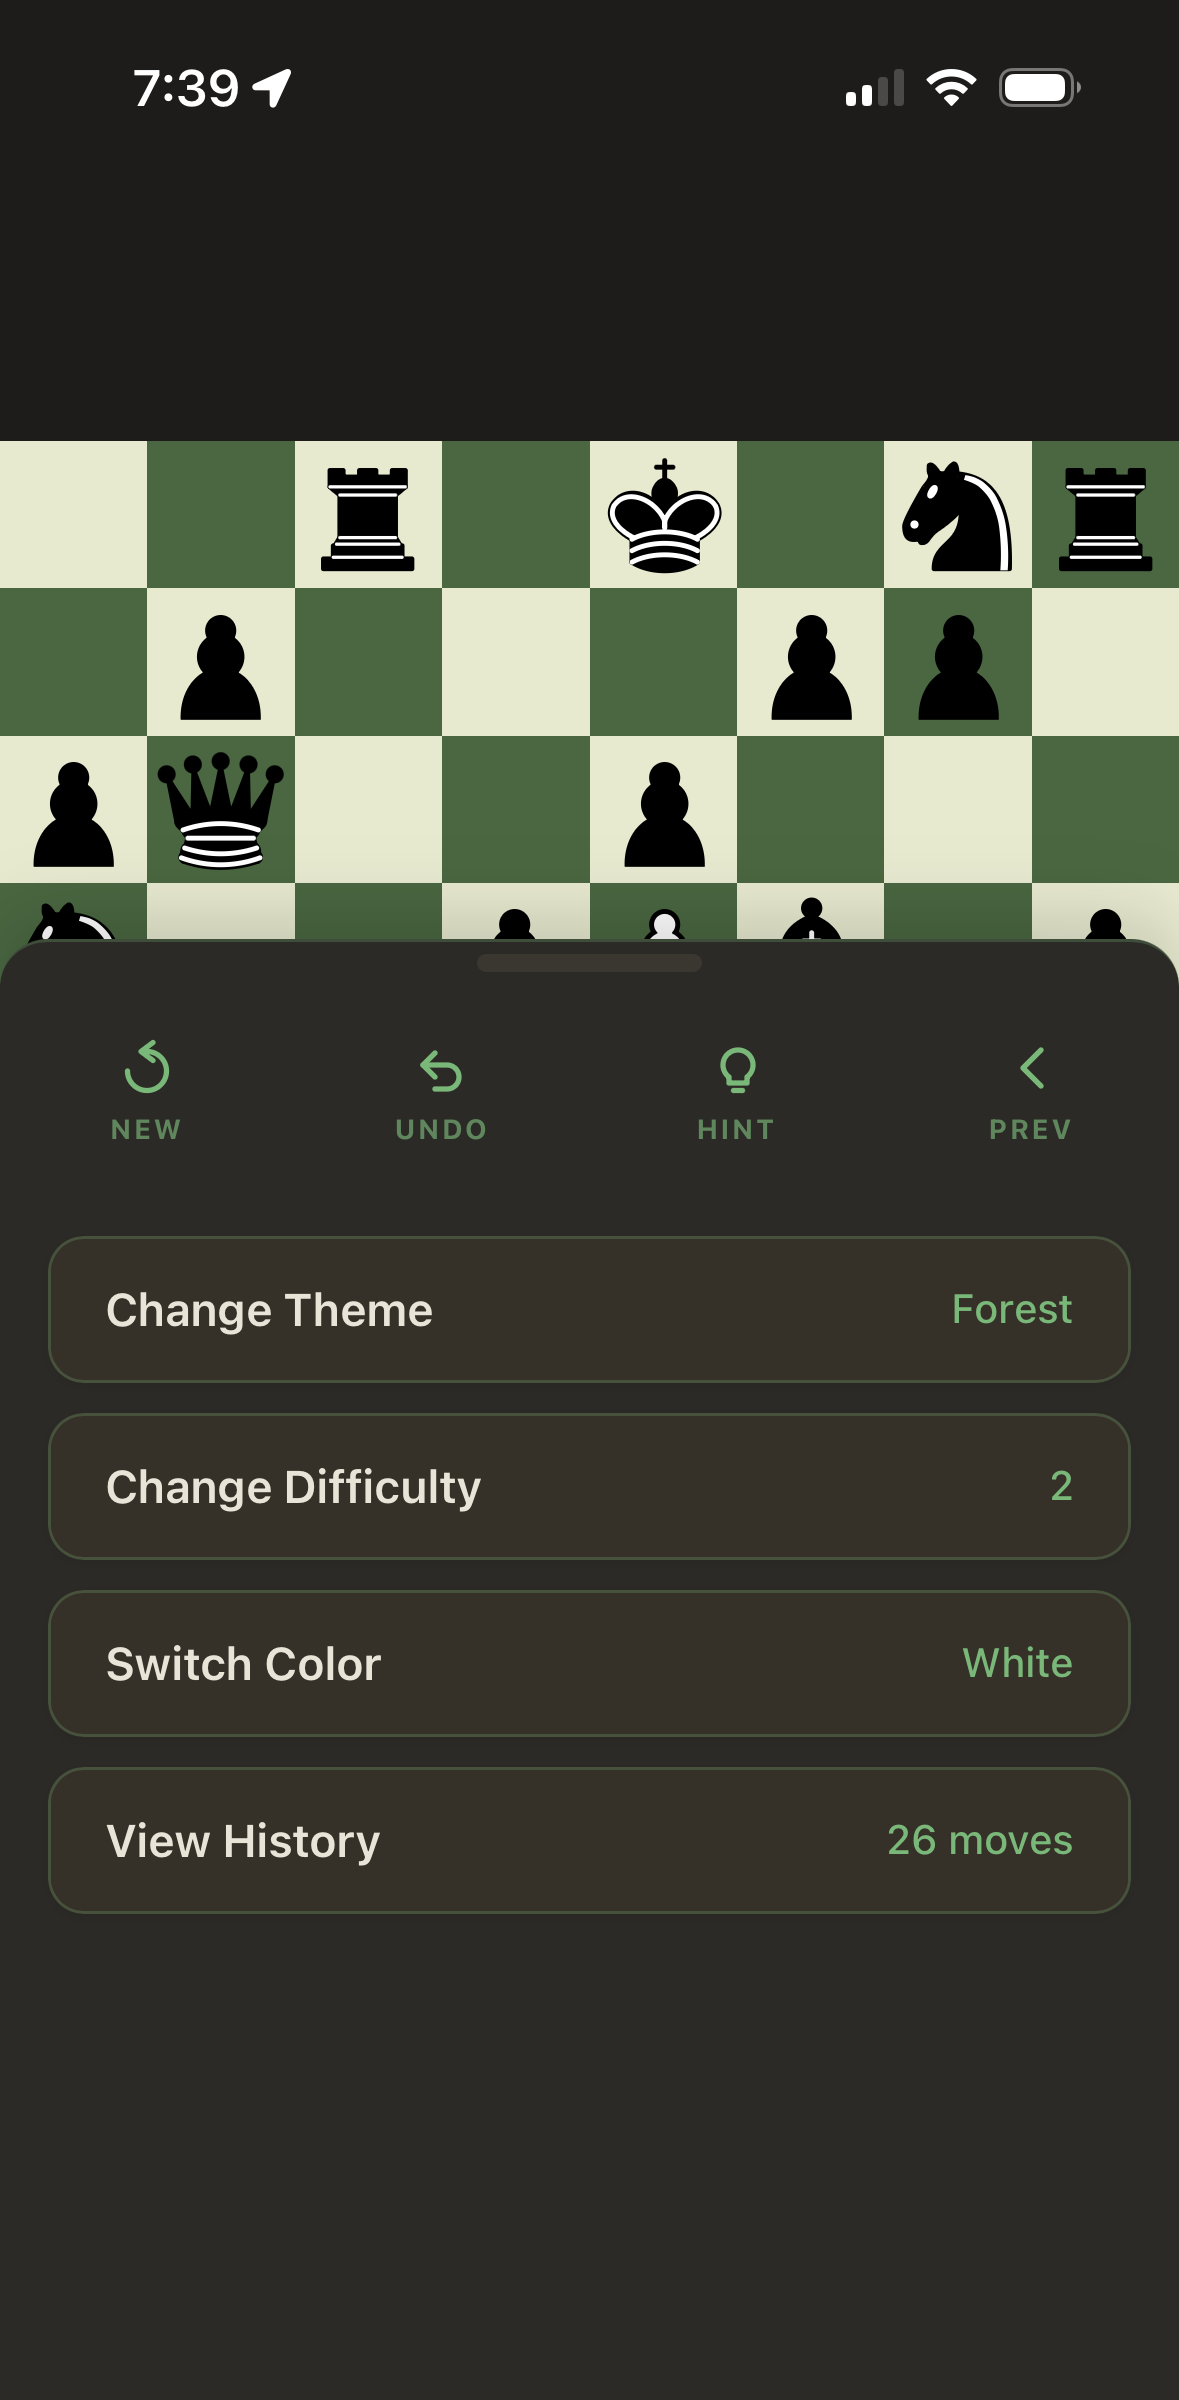
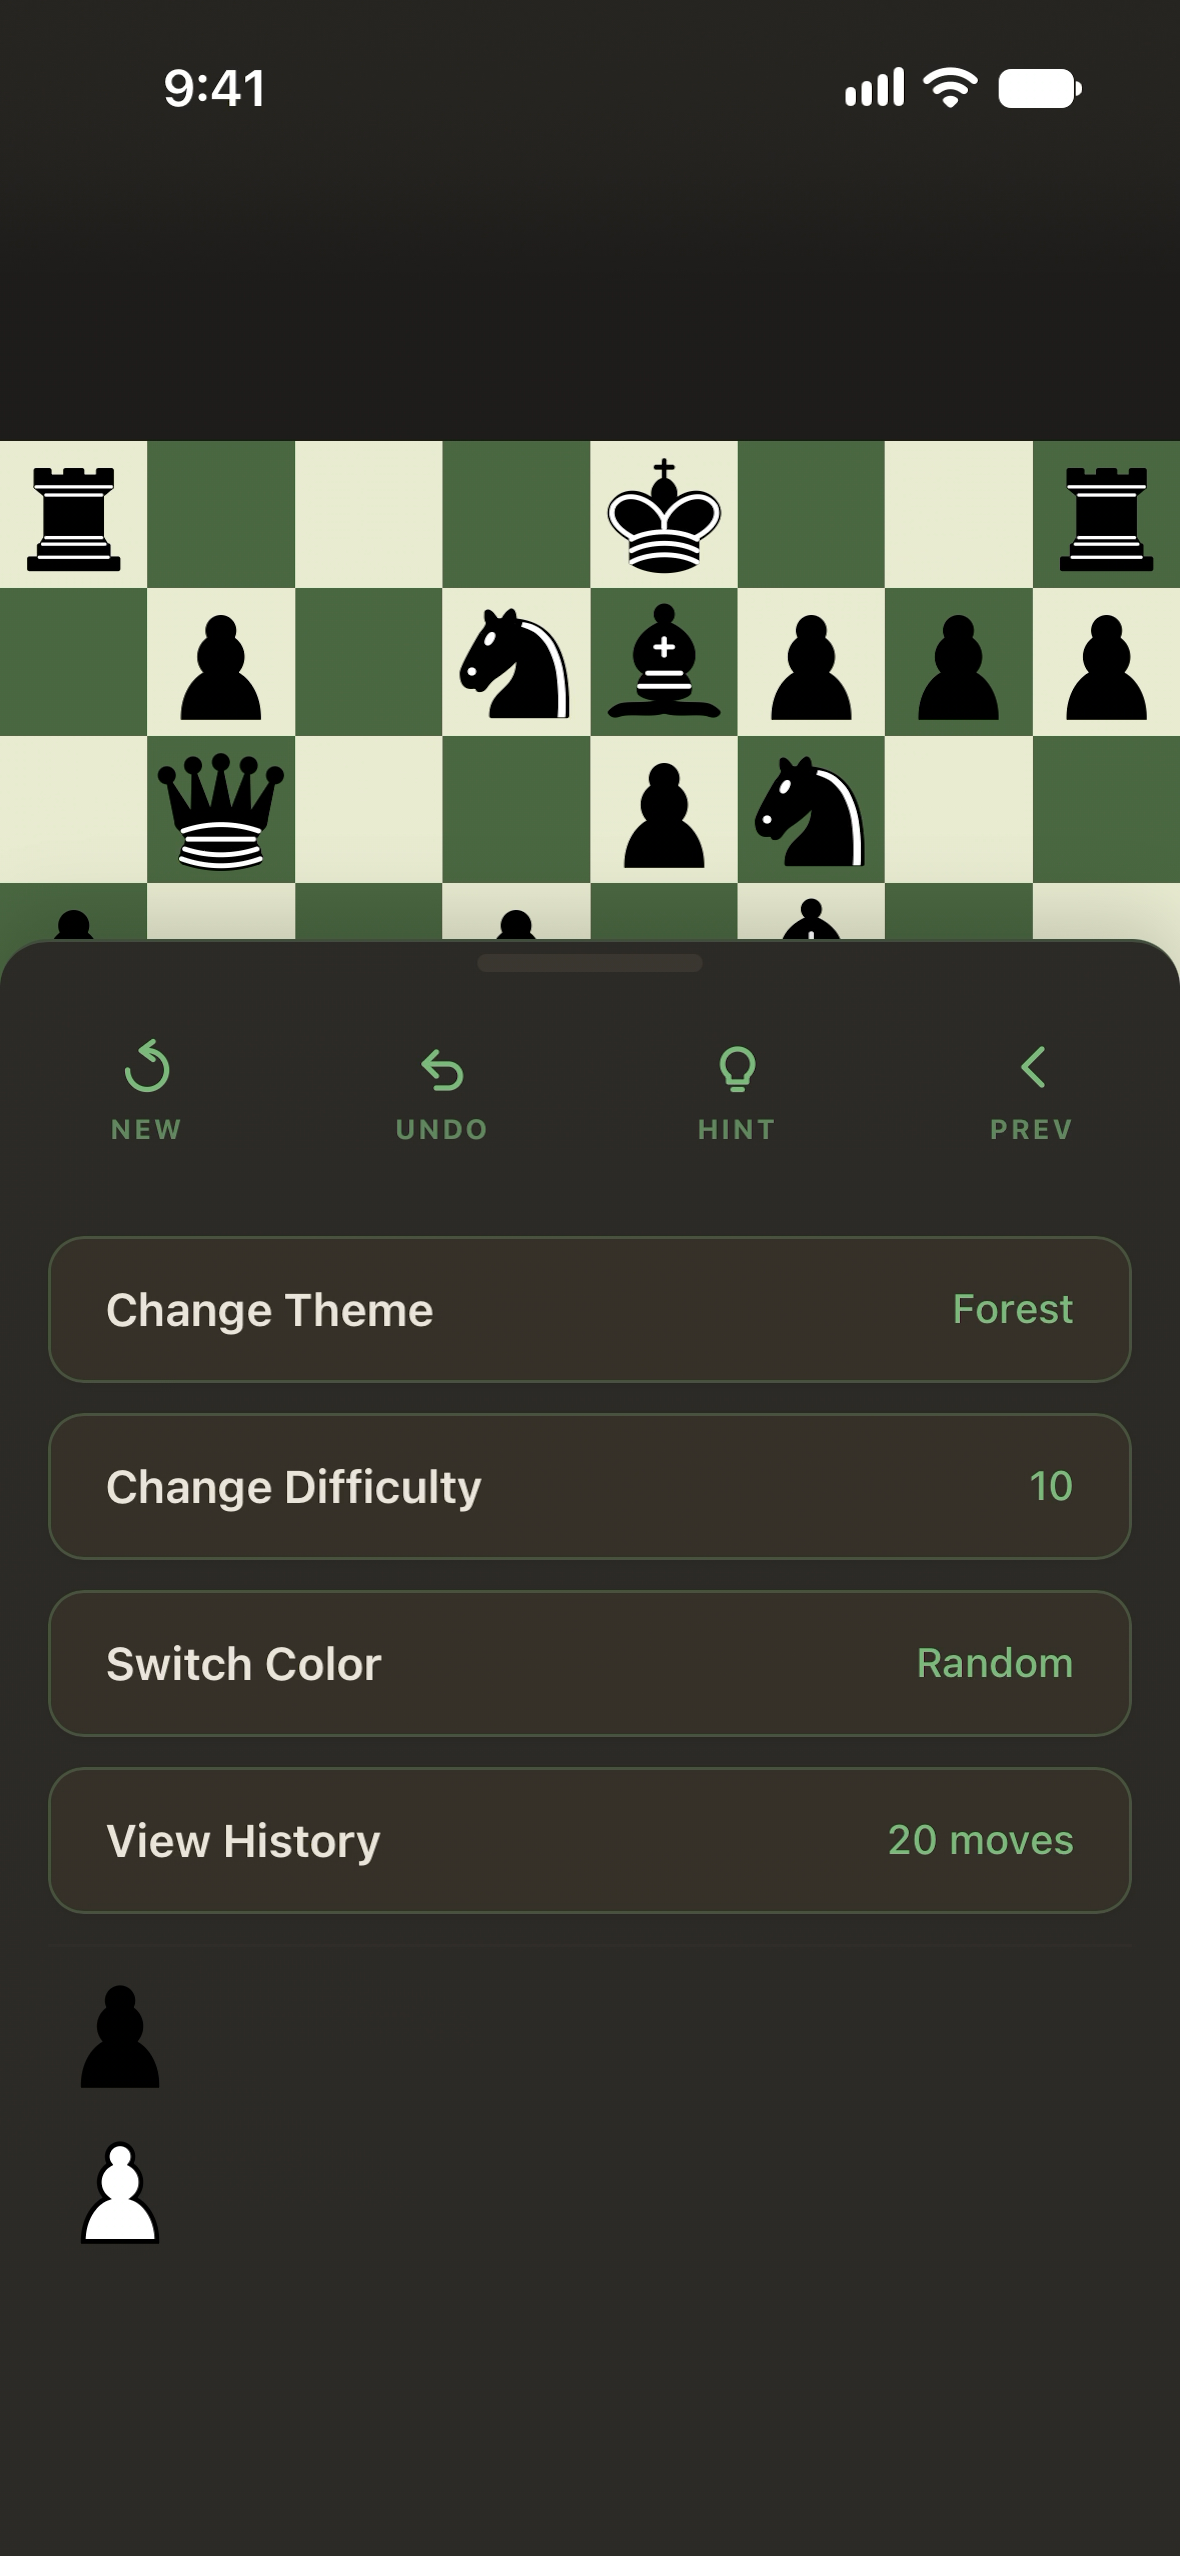
update chess post images

diff --git a/index.html b/index.html
@@ -124,12 +124,12 @@
             </a>
 
             <a href="projects/chess.html" class="post-row">
-                <div class="post-row-thumbnail browser-stage" style="--stage-color: #E3D8C4">
-                    <div class="browser-window browser-window-micro">
-                        <div class="browser-toolbar">
-                            <span class="browser-toolbar-dot"></span><span class="browser-toolbar-dot"></span><span class="browser-toolbar-dot"></span>
-                        </div>
-                        <img src="images/chess/chess-thumbnail.png" alt="Chess app interface">
+                <div class="post-row-thumbnail phone-stage" style="--stage-color: #E3D8C4">
+                    <div class="post-row-phone">
+                        <picture>
+                            <source media="(prefers-color-scheme: dark)" srcset="images/chess/new-game-dark.png">
+                            <img src="images/chess/new-game-light.png" alt="Chess app on a phone">
+                        </picture>
                     </div>
                 </div>
                 <div class="post-row-text">

diff --git a/css/home.css b/css/home.css
@@ -136,16 +136,6 @@
   border-radius: 4px;
 }
 
-.post-row-thumbnail.browser-stage {
-  --window-left: 14%;
-  --window-top: 16%;
-}
-
-.post-row-thumbnail.browser-stage .browser-window {
-  border-radius: 5px 0 0 0;
-  box-shadow: 0 1px 2px rgba(10, 25, 41, 0.1), 0 6px 14px rgba(10, 25, 41, 0.14);
-}
-
 .post-row-phone {
   position: absolute;
   left: 50%;
@@ -157,6 +147,10 @@
   background: #0A1929;
   padding: 3px;
   box-shadow: 0 6px 14px rgba(10, 25, 41, 0.2);
+}
+
+.post-row-phone picture {
+  height: 100%;
 }
 
 .post-row-phone img {

diff --git a/css/device-frames.css b/css/device-frames.css
@@ -67,12 +67,6 @@
   border-radius: 8px 0 0 0;
 }
 
-.browser-window-micro {
-  --toolbar-height: 12px;
-  --dot-size: 4px;
-  border-radius: 5px 0 0 0;
-}
-
 /* The window bleeds off the bottom-right edge of a colored stage, cropped by overflow. */
 .browser-stage {
   position: relative;
